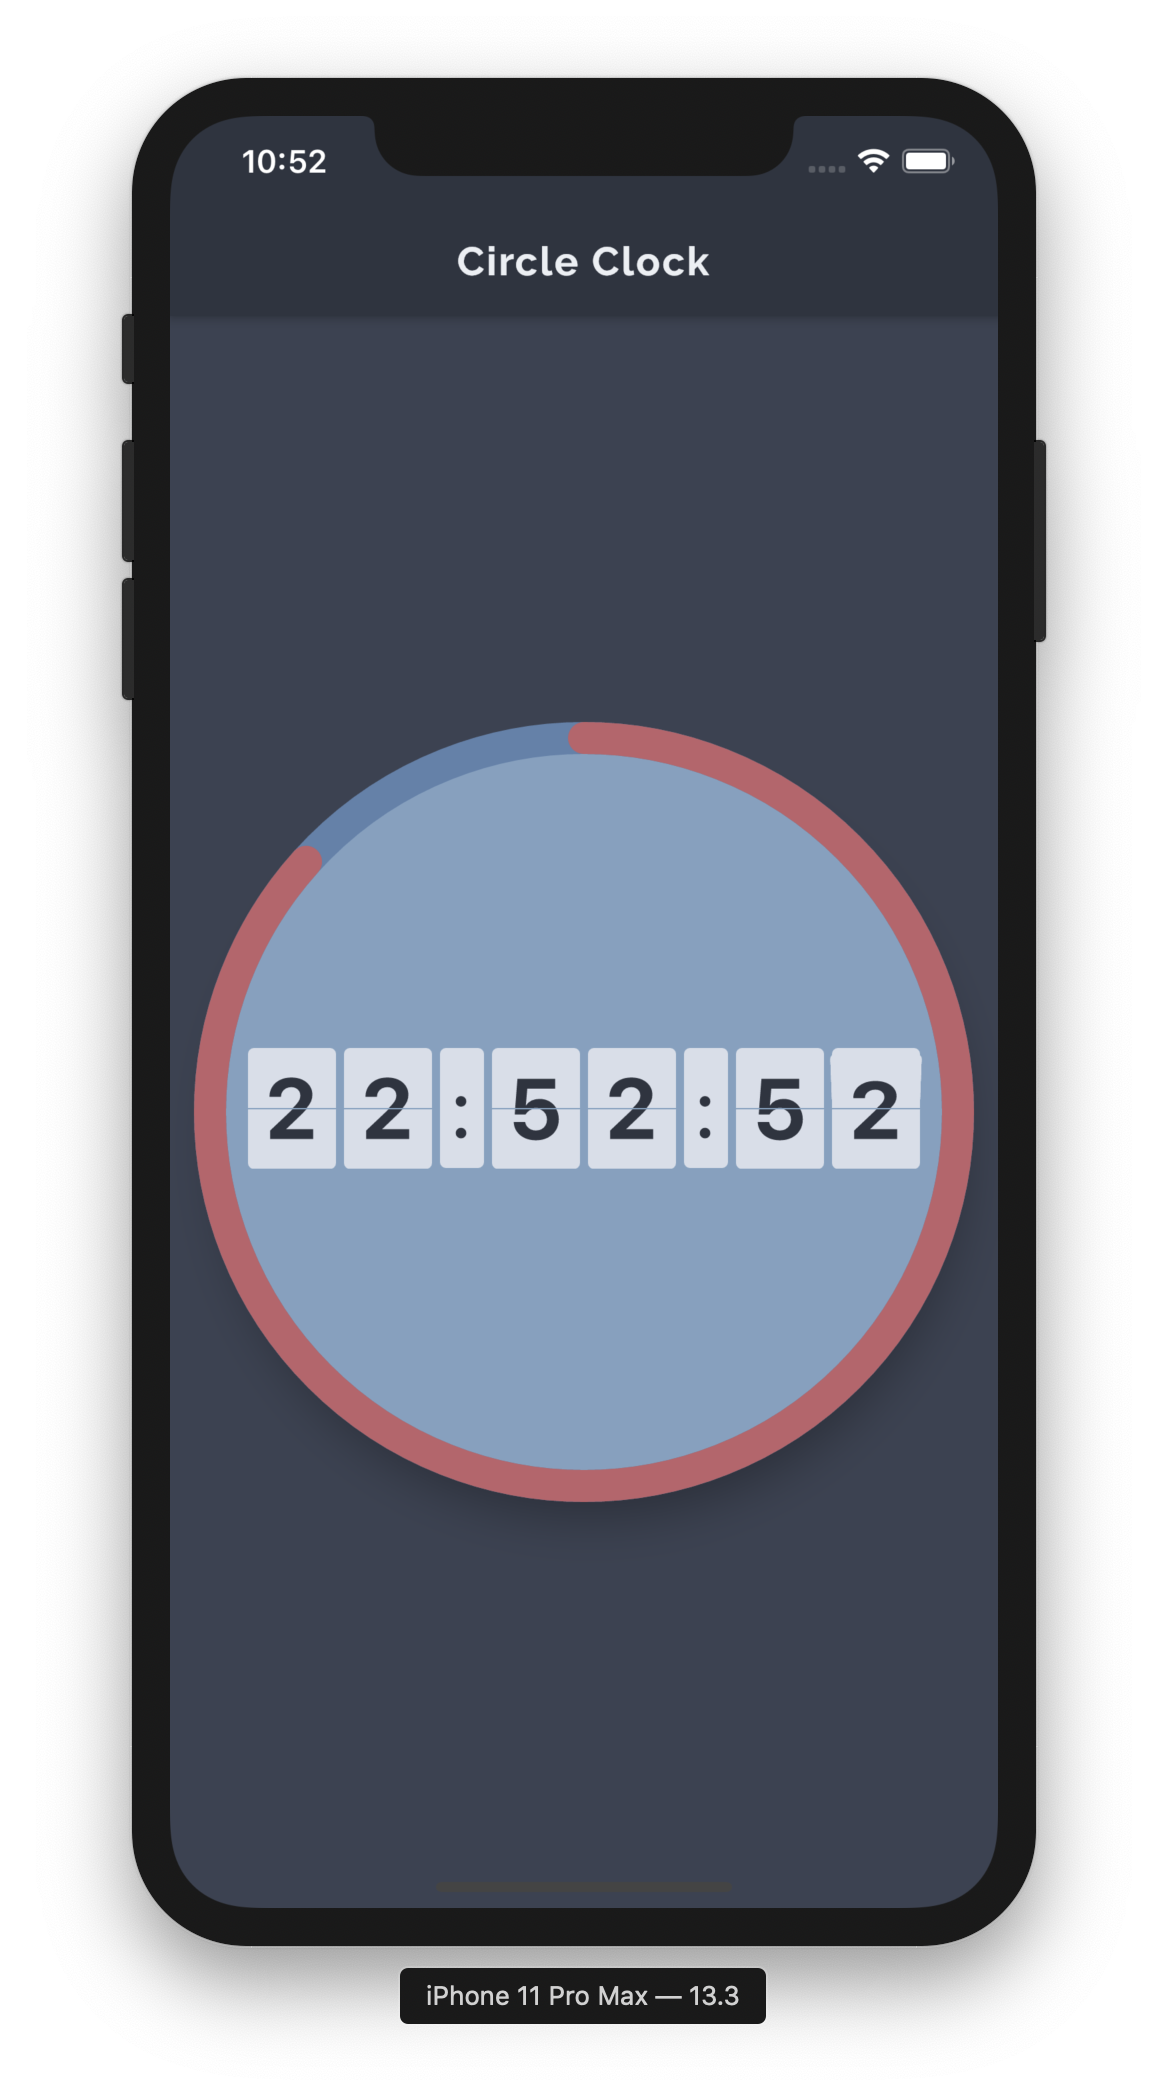
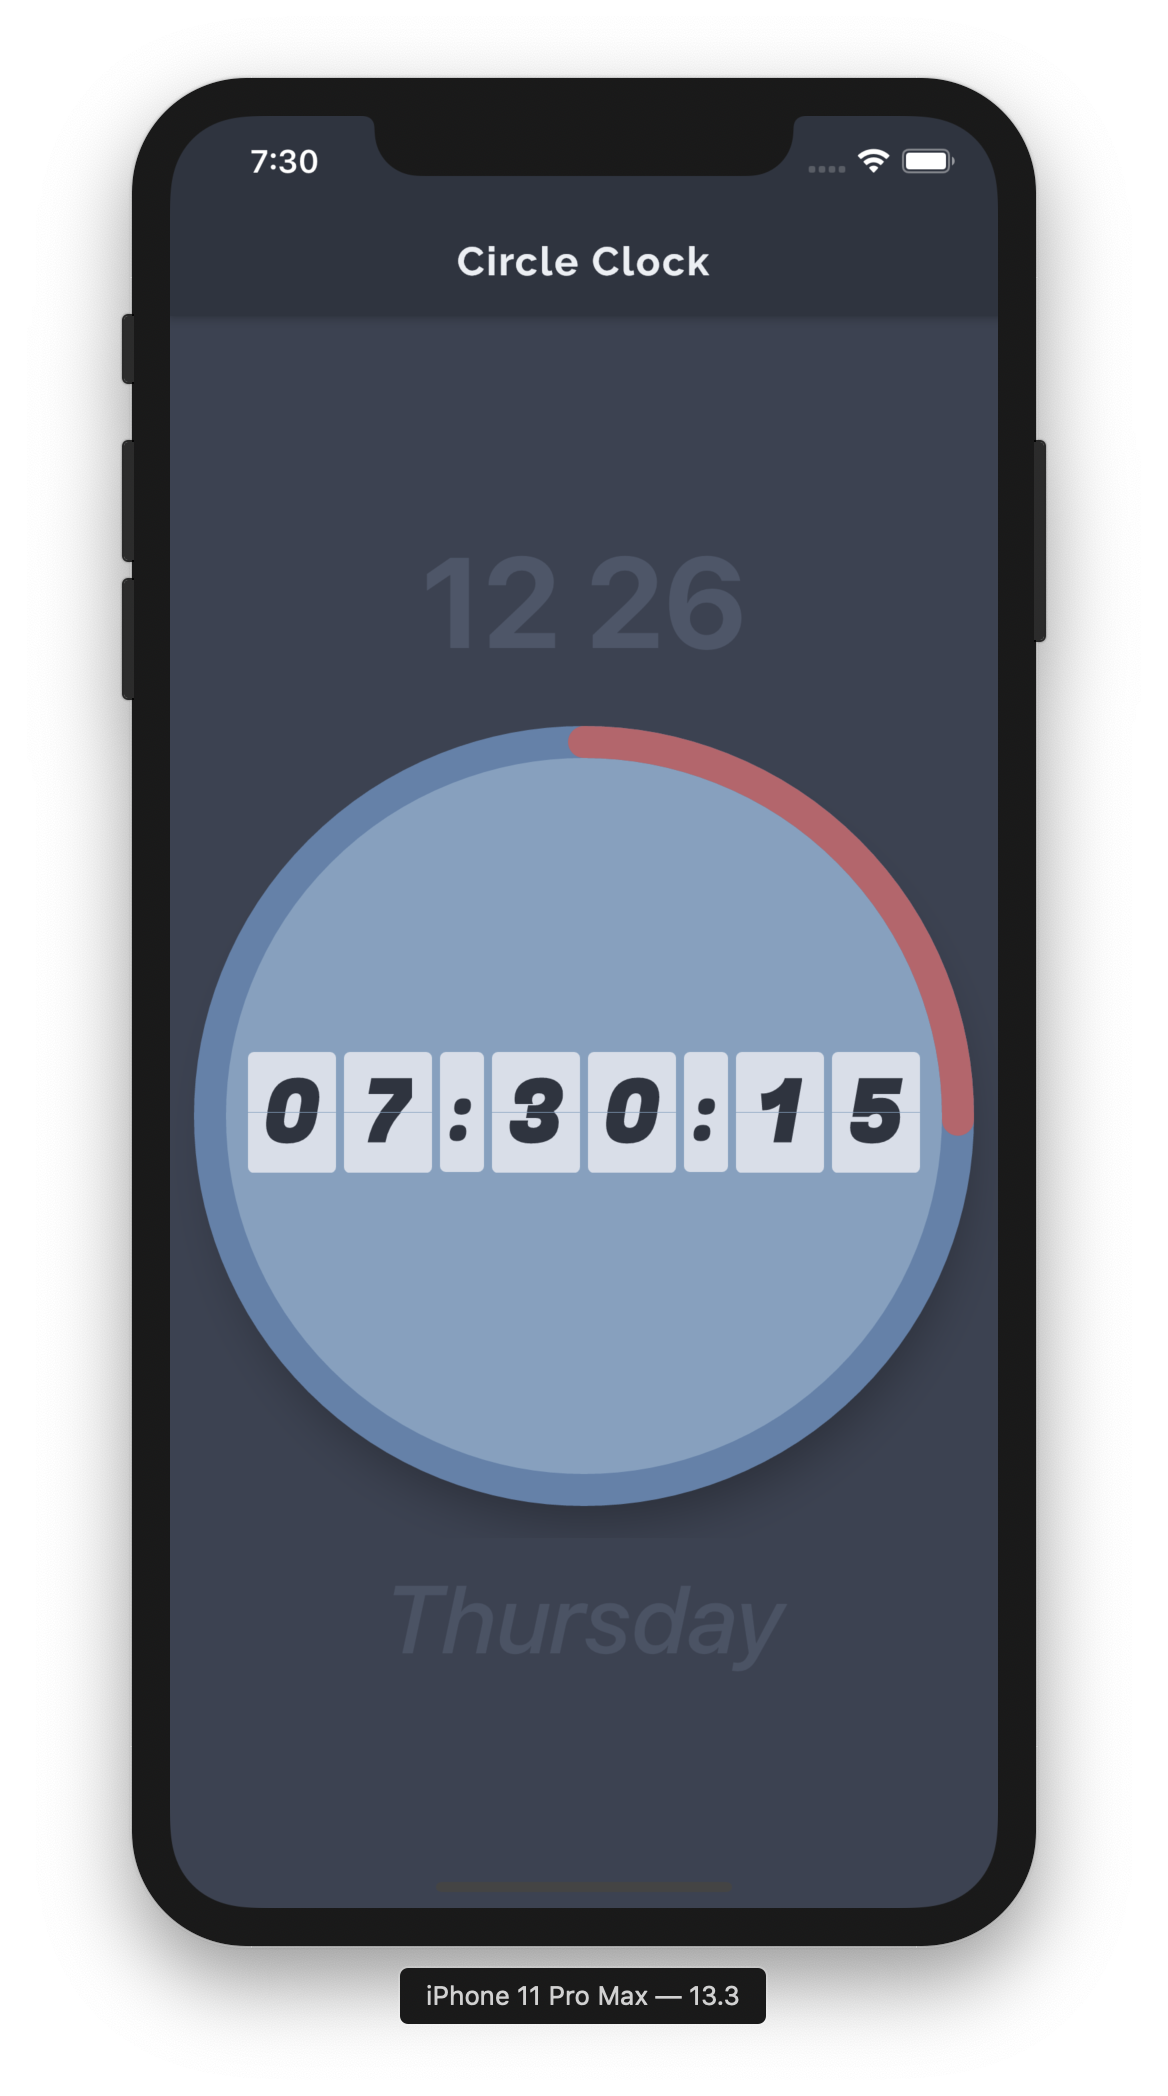
feat: display today with animated_text_kit

diff --git a/lib/main.dart b/lib/main.dart
@@ -4,7 +4,9 @@ import 'dart:ui';
 
 import 'package:flutter/material.dart';
 import 'package:google_fonts/google_fonts.dart';
+import 'package:intl/intl.dart';
 
+import 'package:animated_text_kit/animated_text_kit.dart';
 import 'package:flip_panel/flip_panel.dart';
 import 'package:supercharged/supercharged.dart';
 
@@ -46,6 +48,8 @@ class Home extends StatelessWidget {
 }
 
 class HomeContent extends StatefulWidget {
+  HomeContent({Key key}) : super(key: key);
+
   @override
   _HomeContentState createState() => _HomeContentState();
 }
@@ -92,41 +96,99 @@ class _HomeContentState extends State<HomeContent>
 
   @override
   Widget build(BuildContext context) {
-    return new Center(
-      child: new Container(
-        height: 390.0,
-        width: 390.0,
-        child: new CustomPaint(
-          foregroundPainter: new MyPainter(
-              lineColor: '#5e81ac'.toColor(),
-              completeColor: '#bf616a'.toColor(),
-              completeDegree: degree,
-              width: 16.0),
-          child: new Padding(
-            padding: const EdgeInsets.all(8.0),
-            child: new RaisedButton(
-              elevation: 16.0,
-              color: '#81a1c1'.toColor(),
-              splashColor: '#88c0d0'.toColor(),
-              shape: new CircleBorder(),
-              child: Center(
-                  child: SizedBox(
-                      height: 64.0,
-                      child: FlipClock.simple(
-                        startTime: DateTime.now(),
-                        digitColor: '#2e3440'.toColor(),
-                        backgroundColor: '#d8dee9'.toColor(),
-                        digitSize: 42.0,
-                        borderRadius:
-                            const BorderRadius.all(Radius.circular(3.0)),
-                        flipDirection: FlipDirection.up,
-                      ))),
-              onPressed: _onPressed,
+    return Column(
+        mainAxisAlignment: MainAxisAlignment.center,
+        children: <Widget>[
+          FlatButton(
+            child: Padding(
+                padding: const EdgeInsets.only(bottom: 24.0),
+                child: SizedBox(
+                  width: 300.0,
+                  child: FadeAnimatedTextKit(
+                    key: Key('mmdd'),
+                    displayFullTextOnTap: true,
+                    duration: Duration(seconds: 60),
+                    text: [_getMmdd()],
+                    textStyle: TextStyle(
+                        color: '#4c566a'.toColor(),
+                        fontSize: 64.0,
+                        fontWeight: FontWeight.w700,
+                        fontFamily: 'Cabin'),
+                    textAlign: TextAlign.center,
+                    alignment: AlignmentDirectional.topStart,
+                    totalRepeatCount: 10,
+                  ),
+                )),
+            onPressed: () {},
+          ),
+          Center(
+            child: Container(
+              height: 390.0,
+              width: 390.0,
+              child: CustomPaint(
+                foregroundPainter: MyPainter(
+                    lineColor: '#5e81ac'.toColor(),
+                    completeColor: '#bf616a'.toColor(),
+                    completeDegree: degree,
+                    width: 16.0),
+                child: Padding(
+                  padding: const EdgeInsets.all(8.0),
+                  child: RaisedButton(
+                    elevation: 16.0,
+                    color: '#81a1c1'.toColor(),
+                    splashColor: '#88c0d0'.toColor(),
+                    shape: CircleBorder(),
+                    child: Center(
+                      child: SizedBox(
+                          height: 64.0,
+                          child: FlipClock.simple(
+                            startTime: DateTime.now(),
+                            digitColor: '#2e3440'.toColor(),
+                            backgroundColor: '#d8dee9'.toColor(),
+                            digitSize: 42.0,
+                            borderRadius:
+                                const BorderRadius.all(Radius.circular(3.0)),
+                            flipDirection: FlipDirection.up,
+                          )),
+                    ),
+                    onPressed: _onPressed,
+                  ),
+                ),
+              ),
             ),
           ),
-        ),
-      ),
-    );
+          FlatButton(
+            child: Padding(
+                padding: const EdgeInsets.only(top: 16.0),
+                child: SizedBox(
+                  width: 300.0,
+                  child: TextLiquidFill(
+                    key: Key('today'),
+                    text: _getToday(),
+                    loadDuration: Duration(seconds: 60),
+                    waveColor: '#4c566a'.toColor(),
+                    boxBackgroundColor: '#3b4252'.toColor(),
+                    textStyle: TextStyle(
+                        fontSize: 48.0,
+                        fontWeight: FontWeight.w500,
+                        fontFamily: 'Oswald',
+                        fontStyle: FontStyle.italic),
+                    boxHeight: 80.0,
+                  ),
+                )),
+            onPressed: () {},
+          ),
+        ]);
+  }
+
+  String _getMmdd() {
+    return DateTime.now().month.toString() +
+        ' ' +
+        DateTime.now().day.toString();
+  }
+
+  String _getToday() {
+    return DateFormat('EEEE').format(DateTime.now());
   }
 }
 
